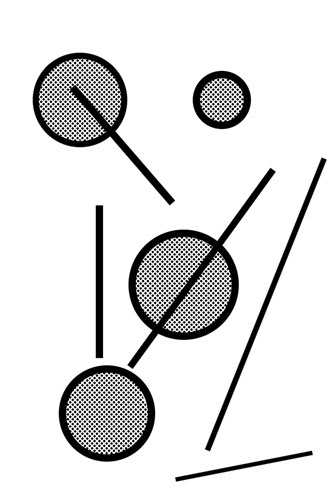
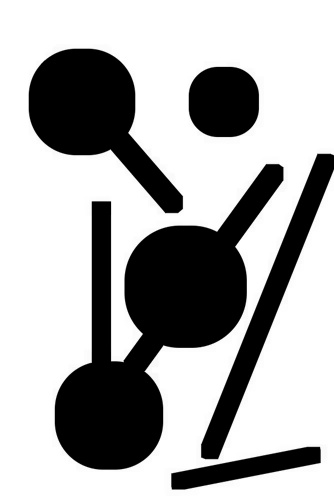
f

Changed region(s): [[0.0599, 0.0904, 1.0, 0.994], [0.5389, 0.1205, 0.7784, 0.3012]]

diff --git a/lab4.py b/lab4.py
@@ -4,6 +4,12 @@ import numpy as np
 def nothing(x):
     pass
 
+    iter4tions = int(cv2.getTrackbarPos("iterations", "conversion parameter"))
+    kernelSize = int(cv2.getTrackbarPos("kernelSize", "conversion parameter"))
+    kernel = np.ones((kernelSize, kernelSize), 'uint8')
+    pictureDilate = cv2.dilate(picture, kernel, iterations=iter4tions)
+
+
 picture = cv2.imread('lr4/picture.jpg')
 
 while True:
@@ -14,16 +20,17 @@ while True:
 cv2.destroyWindow('picture')
 
 cv2.namedWindow("conversion parameter")
-cv2.createTrackbar("iterations", "conversion parameter", 0, 10, nothing)
+cv2.createTrackbar("iterations", "conversion parameter", 1, 10, nothing)
+cv2.createTrackbar("kernelSize", "conversion parameter", 1, 10, nothing)
+
 cv2.moveWindow("conversion parameter", 0, 800)
 cv2.resizeWindow("conversion parameter", 500, 50)
-
-kernel = np.ones((3, 3), 'uint8')
 
 while True:
 
     iter4tions = int(cv2.getTrackbarPos("iterations", "conversion parameter"))
-
+    kernelSize = int(cv2.getTrackbarPos("kernelSize", "conversion parameter"))
+    kernel = np.ones((kernelSize, kernelSize), 'uint8')
     pictureDilate = cv2.dilate(picture, kernel, iterations=iter4tions)
     cv2.imshow('pictureDilate', pictureDilate)
     if cv2.waitKey(1) == ord('q'):
@@ -35,7 +42,8 @@ cv2.destroyWindow('pictureDilate')
 while True:
 
     iter4tions = int(cv2.getTrackbarPos("iterations", "conversion parameter"))
-
+    kernelSize = int(cv2.getTrackbarPos("kernelSize", "conversion parameter"))
+    kernel = np.ones((kernelSize, kernelSize), 'uint8')
     pictureErode = cv2.erode(picture, kernel, iterations=iter4tions)
     cv2.imshow('pictureErode', pictureErode)
     if cv2.waitKey(1) == ord('q'):
@@ -44,11 +52,77 @@ while True:
 cv2.imwrite('lr4/pictureErode.jpg', pictureErode)
 cv2.destroyWindow('pictureErode')
 
+# OPEN
+
 while True:
 
     iter4tions = int(cv2.getTrackbarPos("iterations", "conversion parameter"))
-
-    pictureMorphologyEx = cv2.morphologyEx(picture, cv2.MORPH_OPEN, kernel, iterations=iter4tions)
-    cv2.imshow('pictureMorphologyEx', pictureMorphologyEx)
+    kernelSize = int(cv2.getTrackbarPos("kernelSize", "conversion parameter"))
+    kernel = np.ones((kernelSize, kernelSize), 'uint8')
+    pictureMORPH_OPEN = cv2.morphologyEx(picture, cv2.MORPH_OPEN, kernel, iterations=iter4tions)
+    cv2.imshow('pictureMORPH_OPEN', pictureMORPH_OPEN)
     if cv2.waitKey(1) == ord('q'):
         break
+
+cv2.imwrite('lr4/pictureMORPH_OPEN.jpg', pictureMORPH_OPEN)
+cv2.destroyWindow('pictureMORPH_OPEN')
+
+# CLOSE
+
+while True:
+
+    iter4tions = int(cv2.getTrackbarPos("iterations", "conversion parameter"))
+    kernelSize = int(cv2.getTrackbarPos("kernelSize", "conversion parameter"))
+    kernel = np.ones((kernelSize, kernelSize), 'uint8')
+    pictureMORPH_CLOSE = cv2.morphologyEx(picture, cv2.MORPH_CLOSE, kernel, iterations=iter4tions)
+    cv2.imshow('pictureMORPH_CLOSE', pictureMORPH_CLOSE)
+    if cv2.waitKey(1) == ord('q'):
+        break
+
+cv2.imwrite('lr4/pictureMORPH_CLOSE.jpg', pictureMORPH_CLOSE)
+cv2.destroyWindow('pictureMORPH_CLOSE')
+
+# GRADIENT
+
+while True:
+
+    iter4tions = int(cv2.getTrackbarPos("iterations", "conversion parameter"))
+    kernelSize = int(cv2.getTrackbarPos("kernelSize", "conversion parameter"))
+    kernel = np.ones((kernelSize, kernelSize), 'uint8')
+    pictureMORPH_GRADIENT = cv2.morphologyEx(picture, cv2.MORPH_GRADIENT, kernel, iterations=iter4tions)
+    cv2.imshow('pictureMORPH_GRADIENT', pictureMORPH_GRADIENT)
+    if cv2.waitKey(1) == ord('q'):
+        break
+
+cv2.imwrite('lr4/pictureMORPH_GRADIENT.jpg', pictureMORPH_GRADIENT)
+cv2.destroyWindow('pictureMORPH_GRADIENT')
+
+# TOPHAT
+
+while True:
+
+    iter4tions = int(cv2.getTrackbarPos("iterations", "conversion parameter"))
+    kernelSize = int(cv2.getTrackbarPos("kernelSize", "conversion parameter"))
+    kernel = np.ones((kernelSize, kernelSize), 'uint8')
+    pictureMORPH_TOPHAT = cv2.morphologyEx(picture, cv2.MORPH_TOPHAT, kernel, iterations=iter4tions)
+    cv2.imshow('pictureMORPH_TOPHAT', pictureMORPH_TOPHAT)
+    if cv2.waitKey(1) == ord('q'):
+        break
+
+cv2.imwrite('lr4/pictureMORPH_TOPHAT.jpg', pictureMORPH_TOPHAT)
+cv2.destroyWindow('pictureMORPH_TOPHAT')
+
+# BLACKHAT
+
+while True:
+
+    iter4tions = int(cv2.getTrackbarPos("iterations", "conversion parameter"))
+    kernelSize = int(cv2.getTrackbarPos("kernelSize", "conversion parameter"))
+    kernel = np.ones((kernelSize, kernelSize), 'uint8')
+    pictureMORPH_BLACKHAT = cv2.morphologyEx(picture, cv2.MORPH_BLACKHAT, kernel, iterations=iter4tions)
+    cv2.imshow('pictureMORPH_BLACKHAT', pictureMORPH_BLACKHAT)
+    if cv2.waitKey(1) == ord('q'):
+        break
+
+cv2.imwrite('lr4/pictureMORPH_BLACKHAT.jpg', pictureMORPH_BLACKHAT)
+cv2.destroyWindow('pictureMORPH_BLACKHAT')
